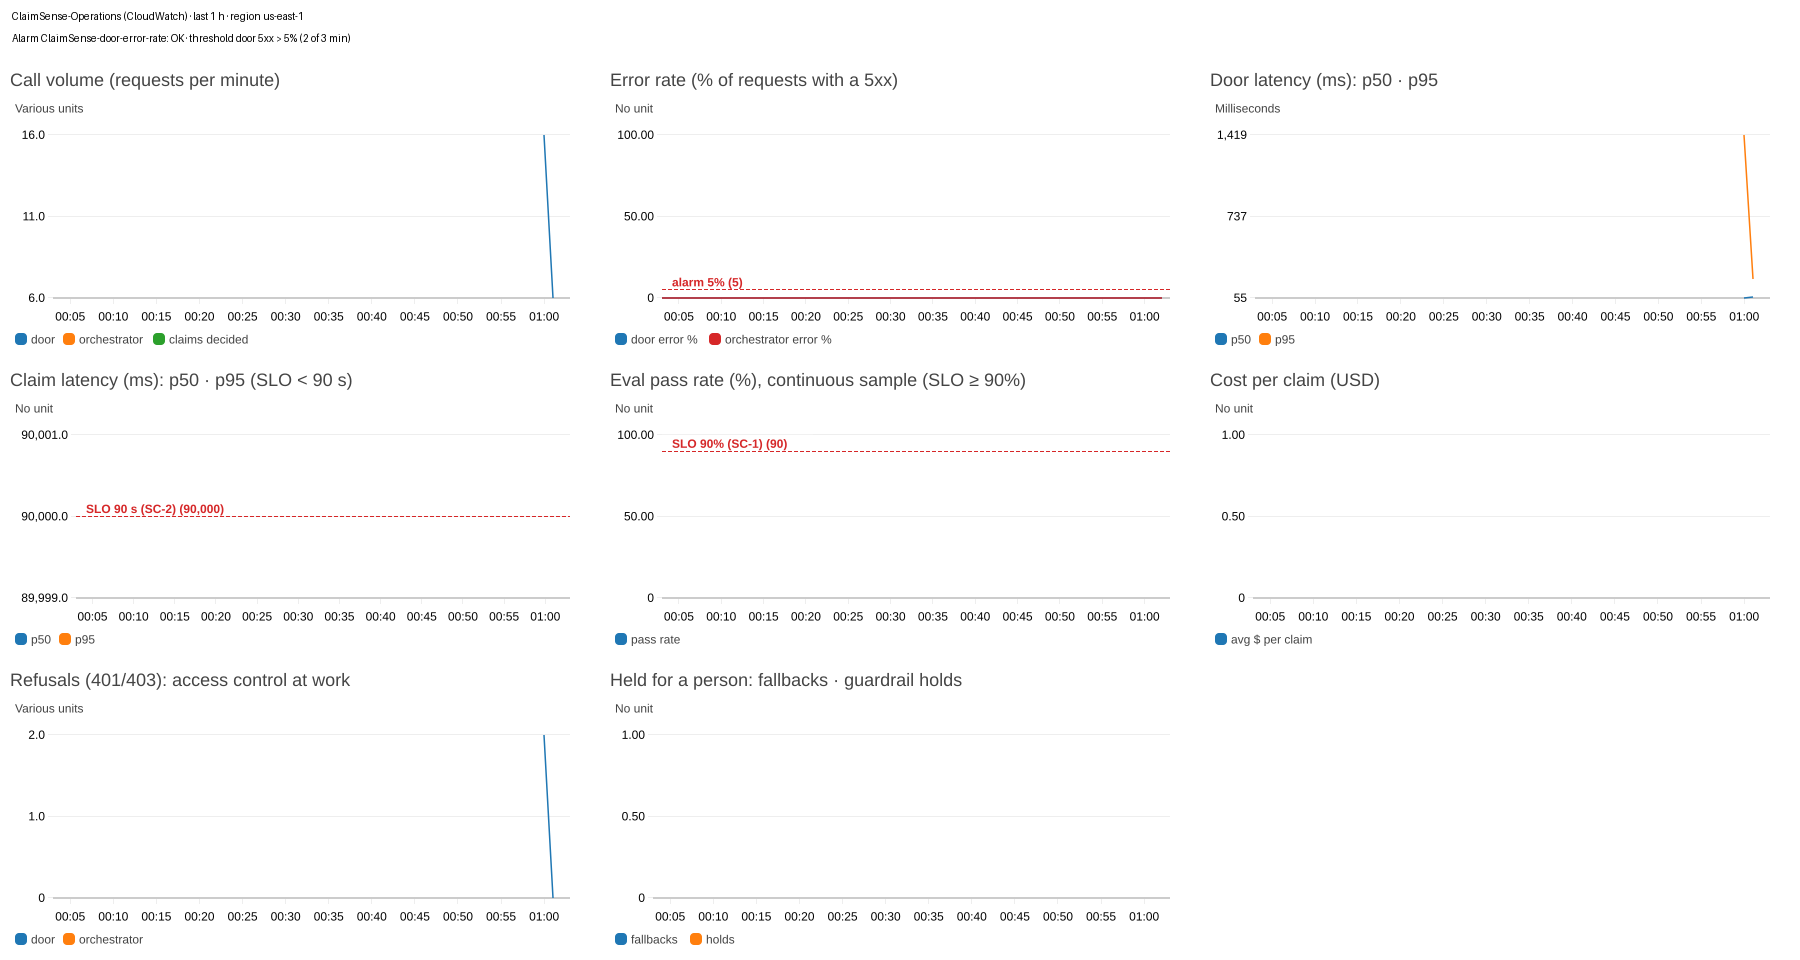
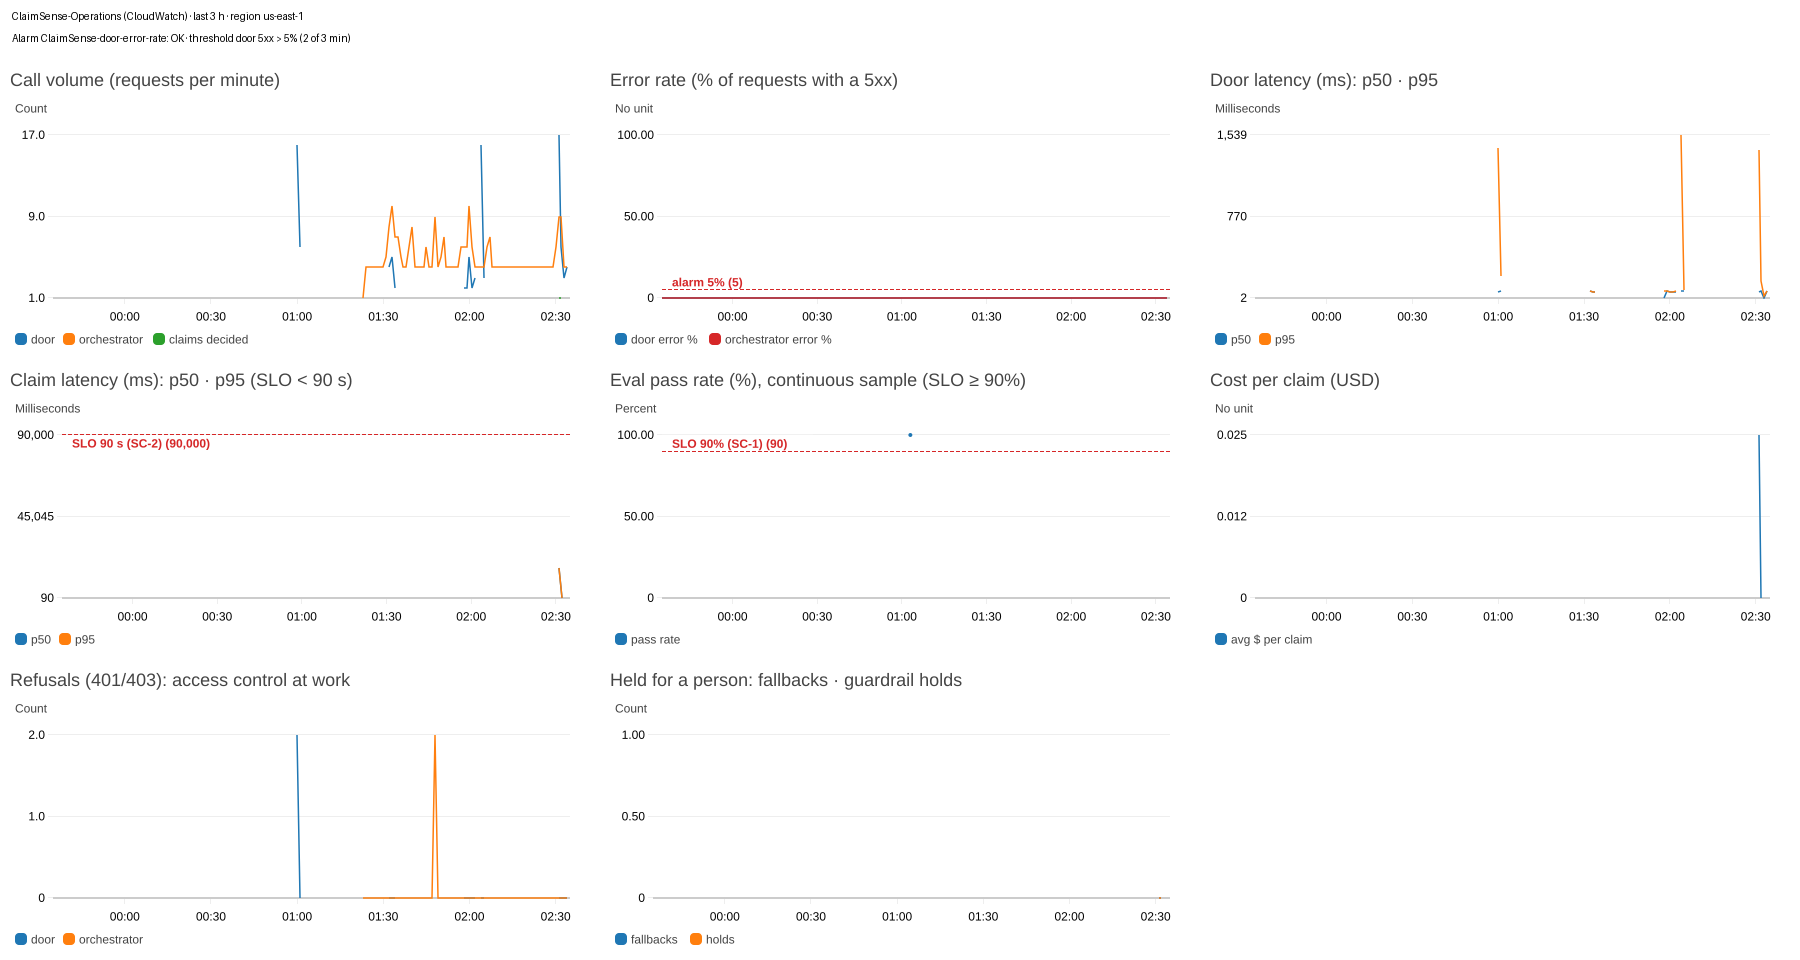
M4 step 4: D-049, docs, as-built §10 + diagram, refreshed dashboard (orchestrator panels live)

diff --git a/M1/2-architecture/draw_architecture_as_built.py b/M1/2-architecture/draw_architecture_as_built.py
@@ -57,7 +57,7 @@ def badge(x, y, num):
 
 
 # ── title ─────────────────────────────────────────────────────────────────────────────────────
-out.append('<text x="20" y="32" font-size="20" font-weight="700" fill="#212121">ClaimSense AI × AutoSure Insurance — architecture AS BUILT (through M4 step 1, prompt m2-v13)</text>')
+out.append('<text x="20" y="32" font-size="20" font-weight="700" fill="#212121">ClaimSense AI × AutoSure Insurance — architecture AS BUILT (through M4 step 4, prompt m2-v13)</text>')
 out.append('<text x="20" y="52" font-size="12" fill="#555">Every arrow is a labelled data flow (B1–B20, legend below). '
            'Blue = deterministic code · Orange = model judgment · Green = human · Grey = systems/data · Purple = operations. '
            'Solid border = deployed on AWS · dashed border = runs locally in containers. Synthetic data only.</text>')
@@ -76,9 +76,9 @@ box(225, 95, 175, 50, "code", ["Keycloak (local)", "RFC 8693 exchange at the IdP
 box(430, 95, 200, 50, "human", ["Adjuster (alice)", "reads only claims assigned to her"])
 box(660, 95, 200, 50, "human", ["Senior adjuster (bob)", "all claims · audit reader"])
 box(890, 95, 180, 50, "human", ["Specialists", "carol (fraud) · eve (total loss)"])
-box(420, 190, 400, 50, "code", ["Adjuster Console", "Streamlit · queue · Ask ClaimSense · computed vs judgment"], dashed=True)
+box(420, 190, 400, 50, "code", ["Adjuster Console — CloudFront → ALB → ECS Fargate", "Streamlit · Cognito sign-in · queue · Ask ClaimSense"])
 
-box(40, 300, 260, 75, "code", ["Orchestrator", "OpenAI Agents SDK · fixed order", "token exchange → 5-min delegated token"], dashed=True)
+box(40, 300, 260, 75, "code", ["Orchestrator (same Fargate task)", "OpenAI Agents SDK · fixed order", "token exchange → 5-min delegated token"])
 box(330, 300, 230, 75, "code", ["Deterministic checks", "term · net payable · repair÷ACV · $25K", "checklist · risk indicators (m2-v10)"])
 box(590, 300, 330, 75, "code", ["Guardrails G1–G8 (code)", "injection scan + classifier · provenance quarantine", "citations ⊆ retrieved · PII mask · second opinion"])
 box(950, 300, 290, 75, "code", ["Rule-engine fallback + holds", "labelled deterministic_fallback", "guardrail / disagreement → senior adjuster"])
@@ -90,7 +90,7 @@ box(625, 455, 185, 65, "model", ["④ Decision Draft", "gpt-4o · strict output"
 box(820, 455, 170, 65, "model", ["Ask ClaimSense", "follow-up chat", "explains, never decides"])
 box(1010, 455, 230, 65, "ext", ["OpenAI API", "external model subprocessor", "PII-masked inputs only"], dashed=True)
 
-box(40, 592, 1200, 70, "code", ["THE DOOR — API Gateway (Cognito JWT authorizer) → Lambda (container image) · same image runs locally",
+box(40, 592, 1200, 70, "code", ["THE DOOR — API Gateway (Cognito JWT authorizer; /mcp: door verifies the delegated token) → Lambda (container image) · same image runs locally",
     "auth before routing · grants.json deny-by-default · entitled() = group + assigned adjuster · REST 403 · idempotency · retry/breaker · audit EVERY call"])
 
 box(40, 722, 170, 65, "store", ["Claims management", "claims · assignments", "prior_claims_24m"], dashed=True)
@@ -102,10 +102,10 @@ box(860, 722, 110, 65, "store", ["Slack", "on-call page", "link, no data"], dash
 box(980, 722, 120, 65, "store", ["Amazon S3", "policies/ · documents/", "door reads"])
 box(1110, 722, 130, 65, "store", ["DynamoDB", "append-only audit"])
 
-box(1300, 105, 275, 60, "ops", ["Secrets Manager", "OpenAI key → orchestrator at runtime"])
+box(1300, 105, 275, 60, "ops", ["Secrets Manager", "OpenAI key + demo sign-in → task role"])
 box(1300, 300, 275, 60, "ops", ["Amazon ECR", "the gated image (immutable tags)"])
 box(1300, 455, 275, 60, "ops", ["GitHub Actions", "live gate ≥ 90% · push THE tested build"])
-box(1300, 600, 275, 60, "ops", ["CloudWatch Logs", "AUDIT lines · API GW access log"])
+box(1300, 600, 275, 60, "ops", ["CloudWatch", "logs · dashboard · alarm → SNS"])
 box(1300, 722, 275, 65, "ops", ["Budget alarm + tags", "Project=ClaimSense · cost guardrail"])
 
 # ── flows ─────────────────────────────────────────────────────────────────────────────────────

diff --git a/M1/2-architecture/architecture.md b/M1/2-architecture/architecture.md
@@ -149,7 +149,7 @@ governance) it picks a **managed hub** (iPaaS 5, event mesh 4).
 | OpenAI API cost and latency | Four model calls per claim; 150-case CI runs | Small model by default, large model only on Coverage/Decision; mock brain in CI except the gate run; token budget alarm |
 | The retrieval index | Re-indexing shifts chunk IDs and breaks citations | Clause IDs are stable keys (not chunk positions); manifest version pinned per run |
 
-## 10. As built (through M3)
+## 10. As built (through M4)
 
 ![ClaimSense architecture as built](architecture-as-built.png)
 
@@ -162,7 +162,7 @@ locally in containers. Flows B1–B20 are in the diagram's legend.* Last updated
 
 | M1 design | As built | Runs | Why / decision | Proof |
 |---|---|---|---|---|
-| One data boundary (MCP server) on API Gateway + Lambda | **The governed door**: MCP 2025-06-18 (`/mcp`, stdio) + REST, one service. Authenticates before routing, then `grants.json` (deny-by-default, per action), then `entitled()` (per record) | **AWS** (Lambda container image behind an HTTP API + Cognito JWT authorizer) and locally | D-036, D-037, D-040, D-043 | M3 evidence 05, 13, 14 |
+| One data boundary (MCP server) on API Gateway + Lambda | **The governed door**: MCP 2025-06-18 (`/mcp`, stdio) + REST, one service. Authenticates before routing, then `grants.json` (deny-by-default, per action), then `entitled()` (per record) | **AWS** (Lambda container image behind an HTTP API + Cognito JWT authorizer; `/mcp` carries the door's own delegated token, so the door verifies it, D-049) and locally | D-036, D-037, D-040, D-043 | M3 evidence 05, 13, 14 |
 | Entitlement: group → claim scope | Group **and** assigned adjuster: an adjuster reads only claims assigned to them; a senior adjuster reads all; specialists read claims handed to their group; no owner = denied | AWS + local | D-030, D-042 | M3 evidence 20, 21 |
 | Same error for missing / forbidden | Same body **and** the same status: REST 403 for both; MCP keeps JSON-RPC `isError` | AWS + local | D-042 | M3 evidence 20 |
 | JWT carries the user to the boundary | **On-behalf-of:** the orchestrator trades the user's token for a 5-minute delegated token (aud = the door, scope = the actions the agent needs). Keycloak does the RFC 8693 exchange locally; on AWS the door's `/oauth/token` does it. Confirm, audit read and webhooks can never be delegated | AWS + local | D-039, D-041 | M3 evidence 14, 19 |
@@ -171,7 +171,7 @@ locally in containers. Flows B1–B20 are in the diagram's legend.* Last updated
 | Audit in DynamoDB, streamed to CloudWatch | One append-only row per call (allow, deny, 401, invalid, replay) in DynamoDB, **and** the same row as an `AUDIT {json}` line in the Lambda's CloudWatch log group; edge 401s in the API Gateway access log | AWS (local: `/state` + container log) | D-037, D-042 | M3 evidence 09, 21 |
 | Logs, dashboard, alarm in CloudWatch | **Dashboard `ClaimSense-Operations`** (call volume, error rate, p50/p95 latency, eval pass, cost per claim, refusals, holds) from EMF metrics both services print; **alarm** on the door's 5xx rate → SNS email; continuous eval publishes the live pass rate | AWS | D-048 | M4 evidence dashboard.png |
 | OpenSearch clause index | OpenSearch in the local stack; the deployed door uses BM25 over the same corpus, so it never holds a model key | local / AWS (BM25) | D-033, D-040 | M2 evidence container-wiring |
-| Orchestrator + console on ECS Fargate | Containers (one command, non-root, health checks). **Not deployed to AWS**: only the door is; the orchestrator image is gated in CI and pushed to ECR, and also speaks AgentCore Runtime's contract | local; image in ECR | D-033, D-035, D-028 | M2 evidence stack-smoke, ci-gate-proof |
+| Orchestrator + console on ECS Fargate | **Deployed:** one Fargate task (console :8501 + orchestrator on localhost :8003) behind an ALB that admits only CloudFront, and CloudFront for HTTPS. Real Cognito sign-in unlocked by a demo passcode (hash in Secrets Manager). Task role reads two secrets, signs in to one pool, writes audit + metrics. Images tagged with the commit; also run locally with one command | **AWS** + local | D-033, D-035, D-049 | M4 evidence frontend-deployed |
 | Four agents, fixed sequence | Four, plus **Ask ClaimSense** (follow-up chat that explains, never decides). Pinned model snapshots; a second, independent Decision Draft sends disagreements to a senior adjuster. Intake moved to the smart model in m2-v13 (the fast one was inconsistent at spotting contradictions) | local | D-011, D-025, D-028, D-046 | M4 evidence gate-run, release gate |
 | Claim Assessment: fraud from narrative inconsistency | Plus code-computed **risk indicators** (late night, no police report on theft/vandalism, 2+ prior claims) on the card, which never refer on their own; a **high-value** flag | local | D-045 | M2 `tests/test_viewer_agent_fields.py` |
 | Guardrails in code | G1–G7 plus G1b (model classifier for injected instructions) and G8 (second opinion); fuzzed | local | D-020, D-026, D-025 | M2 evidence guardrail-fuzz |

diff --git a/M4/DECISIONS.md b/M4/DECISIONS.md
@@ -6,6 +6,44 @@ D-036 to D-044 in [`../M3/DECISIONS.md`](../M3/DECISIONS.md). Newest first.
 
 ---
 
+## D-049 · 2026-11-23 · The deployed frontend: ECS Fargate + ALB + CloudFront, demo sign-in, /mcp verified by the door
+- **Why:** Submission 2 asks for a deployed frontend URL that stays reachable until grading ends, and acceptance
+  criterion 5 is a person running a claim through it. Until now only the door was on AWS.
+- **Decision:**
+  - **Hosting:** one ECS Fargate task (1 vCPU, 2 GB) with two containers: the Streamlit console (:8501) and the
+    orchestrator (:8003, reachable only on localhost inside the task). Behind an internet-facing ALB whose security
+    group admits only the AWS-managed CloudFront origin-facing prefix list, and CloudFront for HTTPS on
+    `*.cloudfront.net` (caching off, all headers forwarded, WebSockets). App Runner was rejected because it doesn't
+    support WebSockets, which Streamlit needs. `M4/cloud/frontend.py apply | status | destroy | rotate-passcode`.
+  - **Sign-in for graders (Susan's choice: demo picker + passcode):** the console asks for one passcode, then signs in
+    as one of the five synthetic users through **real Cognito** (`ADMIN_USER_PASSWORD_AUTH`, called by the
+    orchestrator's `/demo/signin`). The passcode exists only as a SHA-256 hash in Secrets Manager
+    (`claimsense/demo-signin`, with the synthetic users' passwords) and in the owner's `~/.claimsense/demo.json`;
+    10 wrong tries per minute → 429; every attempt is audited. Role still comes from the token checked against the
+    directory, never from the picker. Off unless `CLAIMSENSE_DEMO_SECRET_ID` is set. Passcode alphabet avoids
+    look-alike characters, and pasted quotes or spaces are forgiven (found in the first real sign-in).
+  - **Least privilege:** the task role may read only the two secrets, call `AdminInitiateAuth` on the one pool,
+    write and scan the audit table, and `PutMetricData` in the `ClaimSense` namespace. Images are tagged with the
+    commit (a dirty tree is refused). Metrics go by `PutMetricData` from a background thread
+    (`CLAIMSENSE_METRICS=cloudwatch`), since the awslogs driver doesn't extract EMF.
+  - **`POST /mcp` on API Gateway is now verified by the door, not the Cognito authorizer.** Found on the first
+    deployed run: the agents call `/mcp` with the door's *own* 5-minute delegated token, which a Cognito authorizer
+    can't verify, so API Gateway answered `{"message":"Unauthorized"}` and the run ended with no card. The door
+    already authenticates every request before routing (401 + audit row for none, forged or expired). Re-proved:
+    no token → 401, forged → 401, delegated → 200; M3's route, Week 4 viewer and S3 checks all PASS on AWS. The
+    orchestrator now turns a non-JSON-RPC gateway refusal into a structured error instead of crashing.
+  - Console hardening from the same first run: **Run co-pilot** is disabled until signed in, the passcode survives a
+    user or claim switch, and a refused run shows the reason instead of a stack trace.
+- **Proof:** `M4/evidence/frontend-deployed.txt`: Susan ran the two-user test in her browser on 2026-11-23: alice →
+  approve, $2,700, drafted by the agents through the door; carol → refused (`not_entitled`), no claim data. Every
+  step is in the DynamoDB audit trail. The orchestrator panels of the dashboard now fill
+  (`M4/evidence/dashboard.png`).
+- **Cost:** ≈ $35–40/month while up (ALB ≈ $16, Fargate ≈ $20, CloudFront and Secrets Manager pennies). `destroy`
+  removes all of it after grading.
+- **Owner:** Susan Wellington.
+
+---
+
 ## D-048 · 2026-11-22 · Observability: EMF metrics, one CloudWatch dashboard, one alarm, continuous eval
 - **Why:** brief Milestone 5 #2 ("an operational dashboard reporting error rate, call volume and p95 latency, with one
   alarm defined") and the M4 floor (eval-pass, latency p50/p95 and cost per resolution, with the SLO stated and its

diff --git a/M4/README.md b/M4/README.md
@@ -8,12 +8,13 @@ brief's Milestone 5 and Submission 2, the W17 deck and notebook, and the graded 
 |---|---|---|---|
 | 1 | **150-case suite incl. prompt injection, cross-record leakage, forced auto-decision; the gate passes with the model required** | ✅ | [`evidence/release-gate-live.txt`](evidence/release-gate-live.txt), [`gate-run-live.txt`](evidence/gate-run-live.txt), [`gate-run.txt`](evidence/gate-run.txt) |
 | 2 | **Second grader (Promptfoo) + calibrated judge** | ✅ | [`evidence/second-grader.txt`](evidence/second-grader.txt), [`judge-calibration.txt`](evidence/judge-calibration.txt) |
-| 3 | **Dashboard (error rate, call volume, p95 latency, eval pass, cost per claim) + one alarm** | ✅ live (orchestrator panels fill in Step 4) | [`evidence/dashboard.png`](evidence/dashboard.png) |
+| 3 | **Dashboard (error rate, call volume, p95 latency, eval pass, cost per claim) + one alarm** | ✅ live | [`evidence/dashboard.png`](evidence/dashboard.png) |
 | 4 | Incident drill + one-page RCA with time to verified recovery | planned | |
 | 5 | Runbook: add a user, roll back, escalate a flagged claim manually, update the policy corpus | planned | |
 | 6 | Client presentation with a live demonstration (+ the ≤10-minute recording) | planned | |
 | 7 | Handover pack | planned | |
-| F | Final submission: deployed frontend URL, observation document, final tag, CI on the submitted commit | planned | |
+| F1 | **Deployed frontend URL** (console + orchestrator on AWS) | ✅ https://d2jfndltae6j40.cloudfront.net | [`evidence/frontend-deployed.txt`](evidence/frontend-deployed.txt) |
+| F | Final submission: observation document, final tag, CI on the submitted commit | planned | |
 
 ## 1 · The 150-case suite and the gate
 
@@ -73,3 +74,26 @@ the image push.
 - **Metrics:** EMF lines from both services (`M2/claimsense/metrics.py`), no agent. **Continuous eval:**
   `python M4/ops/continuous_eval.py` (first run 10/10, published).
 - Rebuild: `ALARM_EMAIL=… python M4/ops/observability.py apply` · snapshot: `python M4/ops/dashboard_snapshot.py`.
+
+## 4 · The deployed frontend (D-049)
+
+**https://d2jfndltae6j40.cloudfront.net** · sign in with the demo passcode (given in the submission form, never in
+this repo), pick one of the five synthetic users, choose a claim, **Run co-pilot**.
+
+```
+browser ──HTTPS──▶ CloudFront ──▶ ALB (CloudFront-only ingress) ──▶ ECS Fargate task
+                                                                     ├─ console       :8501  (Streamlit)
+                                                                     └─ orchestrator  :8003  (localhost only)
+                                                                           │ 5-min delegated token, MCP
+                                                                           ▼
+                                                     the door: API Gateway → Lambda → S3 · DynamoDB audit
+```
+
+- **Sign-in:** real Cognito tokens, unlocked by one passcode (SHA-256 in Secrets Manager; brute-force brake;
+  audited). Role always comes from the token checked against the directory.
+- **Secrets:** the OpenAI key and the demo secret are read at runtime by the task role; nothing secret is in an
+  image, the repo or a log.
+- **Proof:** Susan's two-user test through the browser: alice → approve $2,700; carol → refused at the door, no
+  claim data ([`evidence/frontend-deployed.txt`](evidence/frontend-deployed.txt), audit rows included).
+- Deploy: `python M4/cloud/frontend.py apply` (commit first; images are tagged with the commit) · `status` ·
+  `rotate-passcode` then `apply` · `destroy` after grading (≈ $35–40/month while up).

diff --git a/README.md b/README.md
@@ -25,7 +25,7 @@ the eval suite on every push from M0, and from M2 it gates the build.
 | [`M1/`](M1/README.md) | W14 | Milestone 2 | SoW, pricing, architecture, risk register, system contracts, data shapes, cloud account | Done |
 | [`M2/`](M2/README.md) | W15 | Milestone 3 | Four agents on the OpenAI Agents SDK, cited retrieval, containers (one command), CI eval gate that blocks the image push | Done |
 | [`M3/`](M3/README.md) | W16 | Milestone 4 | The governed MCP door: deny-by-default grants + entitlement before any agent, auth on every route, two-user test, append-only audit; 4th backend + webhooks; RFC 8693 OBO | Done |
-| [`M4/`](M4/README.md) | W17 | Milestone 5 | 150-case eval suite (done: 150/150 live ×3, adversarial 45/45), second grader, dashboard and alarm, incident drill, runbook, handover | In progress |
+| [`M4/`](M4/README.md) | W17 | Milestone 5 | 150-case eval suite (150/150 live ×3, adversarial 45/45), second grader, dashboard and alarm, **deployed console: https://d2jfndltae6j40.cloudfront.net**; next: incident drill, runbook, handover | In progress |
 
 **The agents, in one place:** [`M2/AGENTS.md`](M2/AGENTS.md) describes every ClaimSense agent in
 [Salesforce Agent Script](https://developer.salesforce.com/docs/ai/agentforce/guide/agent-script.html) terms: what

diff --git a/M3/README.md b/M3/README.md
@@ -148,7 +148,8 @@ claimsense_door.stdio`, or point any streamable-HTTP MCP client at `http://local
 
 `cloud/deploy.sh` deploys the door as a Lambda container image behind an API Gateway HTTP API. The API's **Cognito JWT
 authorizer** guards every route except health, the key and metadata documents, the token exchange and the HMAC-signed
-webhook. The door verifies the token again, in code.
+webhook. The door verifies the token again, in code. Since M4 (D-049) `POST /mcp` is also verified by the door only:
+agents carry the door's own 5-minute delegated token there, which the Cognito authorizer can't verify.
 - **Reused from M1:** the Cognito pool (5 groups), the `claimsense-audit` DynamoDB table, and the document bucket:
   the door reads its KB corpus, policies and documents from S3 (`cloud/sync_docs.sh`, D-044).
 - **Users:** five synthetic users with random passwords, stored only in `~/.claimsense/` (0600).
